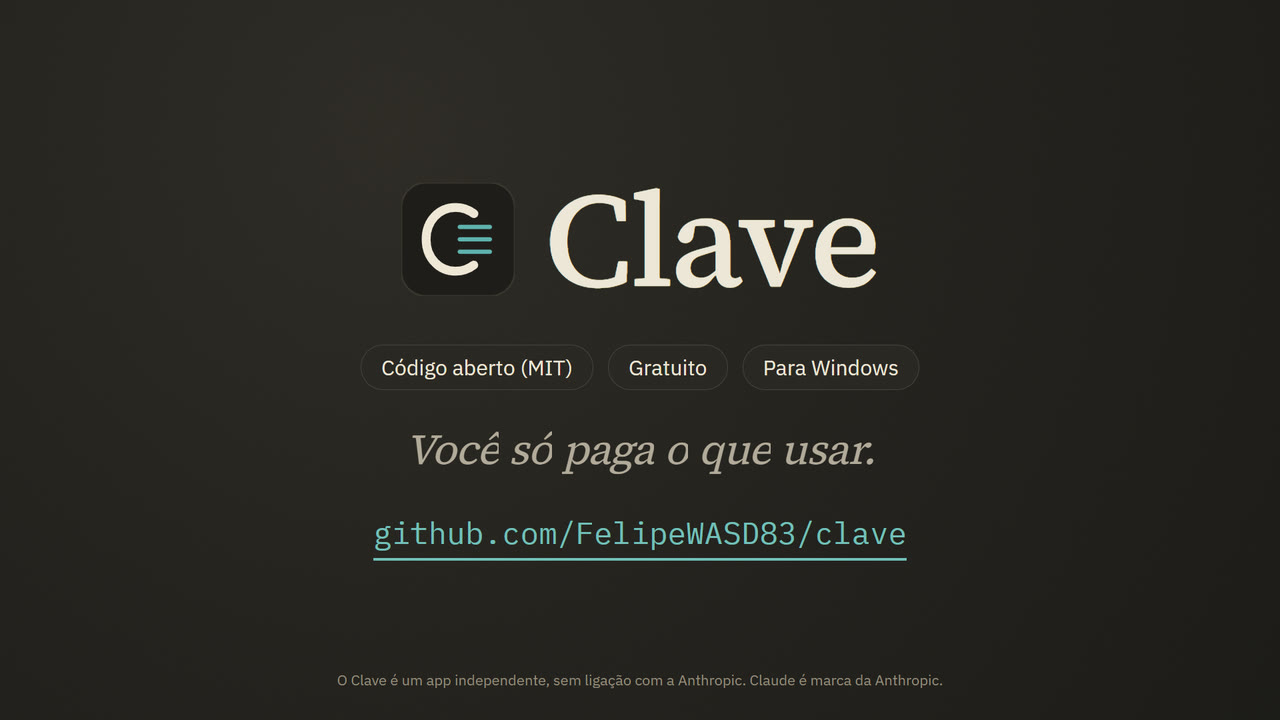
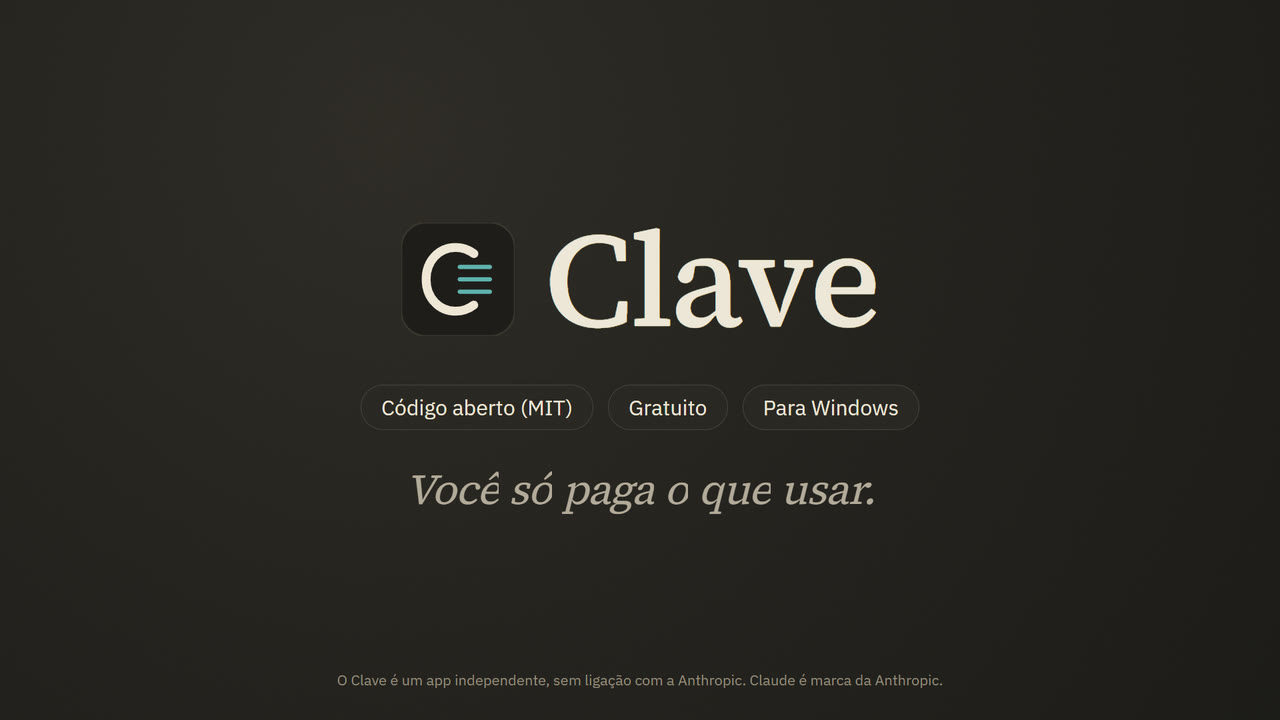
Vídeo: sem o endereço do GitHub na cena final
O fecho mostrava github.com/<dono>/clave escrito na tela; agora fica só com a
marca, os selos e o slogan, e a fala continua dizendo que é só baixar no
GitHub. A capa do README (o último quadro) foi gerada de novo.

diff --git a/video/src/cenas/Fecho.tsx b/video/src/cenas/Fecho.tsx
@@ -1,9 +1,8 @@
 // Cena 9: "O Clave é código aberto e gratuito. Você só paga o que usar. É só baixar no GitHub."
-import {AbsoluteFill, Easing, interpolate, useCurrentFrame} from 'remotion';
+// Sem o endereço do repositório na tela (decisão do dono do repositório): a fala cita o GitHub e basta.
+import {AbsoluteFill, interpolate, useCurrentFrame} from 'remotion';
 import {Entra, Fundo, Logo, Sobe} from '../componentes/Base';
-import {COR, MONO, SANS, quando} from '../tema';
-// o endereço do repositório vem do mesmo lugar que o botão Atualizar usa
-import versao from '../../../versao.json';
+import {COR, SANS, quando} from '../tema';
 
 const C = 'fecho';
 
@@ -22,8 +21,6 @@ export const Fecho: React.FC = () => {
   const tCodigo = quando(C, 'código');
   const tGratuito = quando(C, 'gratuito');
   const tVoce = quando(C, 'Você');
-  const tBaixar = quando(C, 'baixar');
-  const sublinha = interpolate(f - tBaixar - 6, [0, 18], [0, 1], {extrapolateLeft: 'clamp', extrapolateRight: 'clamp', easing: Easing.inOut(Easing.cubic)});
   return (
     <Fundo tipo="tinta">
       <AbsoluteFill style={{alignItems: 'center', justifyContent: 'center', flexDirection: 'column'}}>
@@ -39,12 +36,6 @@ export const Fecho: React.FC = () => {
         <div style={{marginTop: 54}}>
           <Sobe texto="Você só paga o que usar." inicio={tVoce} tamanho={64} peso={400} cor={COR.tintaTexto2} italico passo={2} />
         </div>
-        <Entra inicio={tBaixar} distancia={20} estilo={{marginTop: 60}}>
-          <div style={{position: 'relative', fontFamily: MONO, fontSize: 46, color: COR.tintaAcao}}>
-            github.com/{versao.repositorio}
-            <div style={{position: 'absolute', left: 0, right: 0, bottom: -12, height: 4, background: COR.tintaAcao, transform: `scaleX(${sublinha})`, transformOrigin: 'left'}} />
-          </div>
-        </Entra>
       </AbsoluteFill>
       <div
         style={{

diff --git a/video/CLAUDE.md b/video/CLAUDE.md
@@ -55,8 +55,8 @@ npm run capa                                  # um quadro em saida/capa.png
    atrapalha.
 5. **Remotion fixado em 4.0.534** (versão exata no `package.json`). Grátis para pessoa física e empresa de
    até 3 pessoas.
-6. **O endereço do repositório vem do `versao.json`** do Clave (o mesmo que o botão Atualizar usa): um fork
-   que mude o repositório lá tem o vídeo certo sem mexer no código.
+6. **Sem o endereço do repositório na tela** (decisão do dono do repositório, 14/10/2026): o fecho mostra a
+   marca, os selos e o slogan; a fala diz "é só baixar no GitHub" e basta.
 
 ## Armadilhas
 
